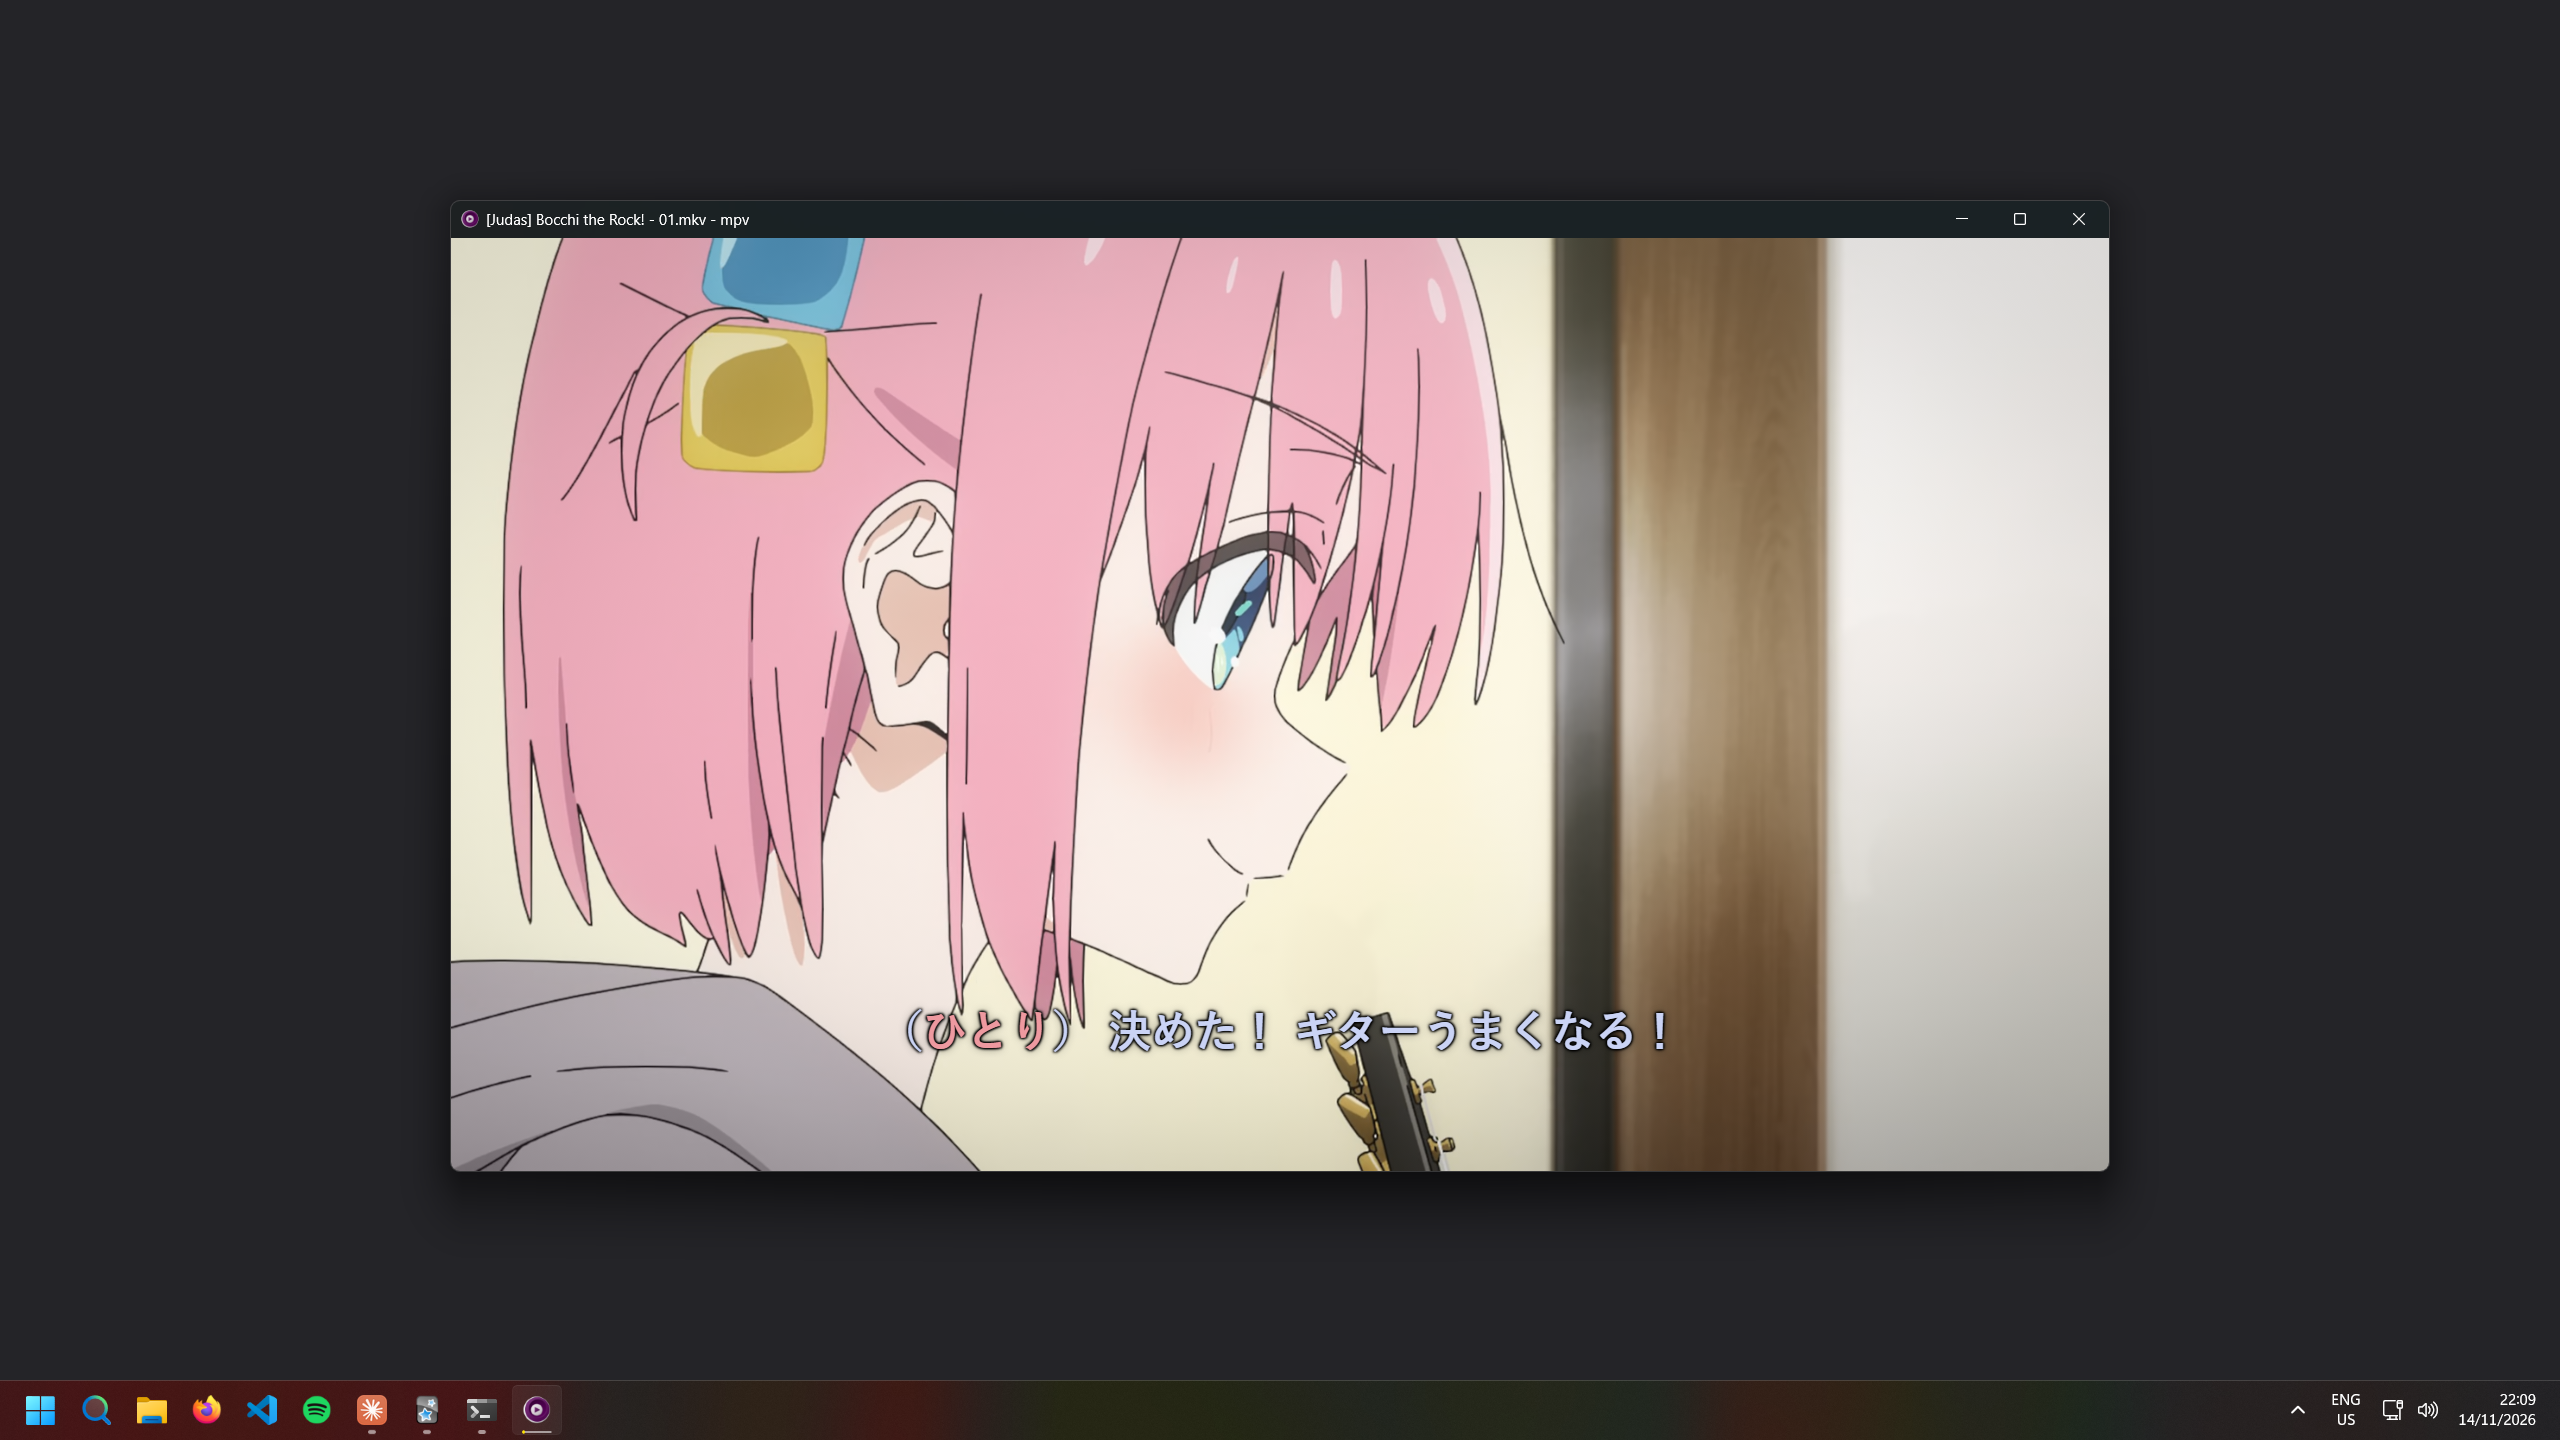
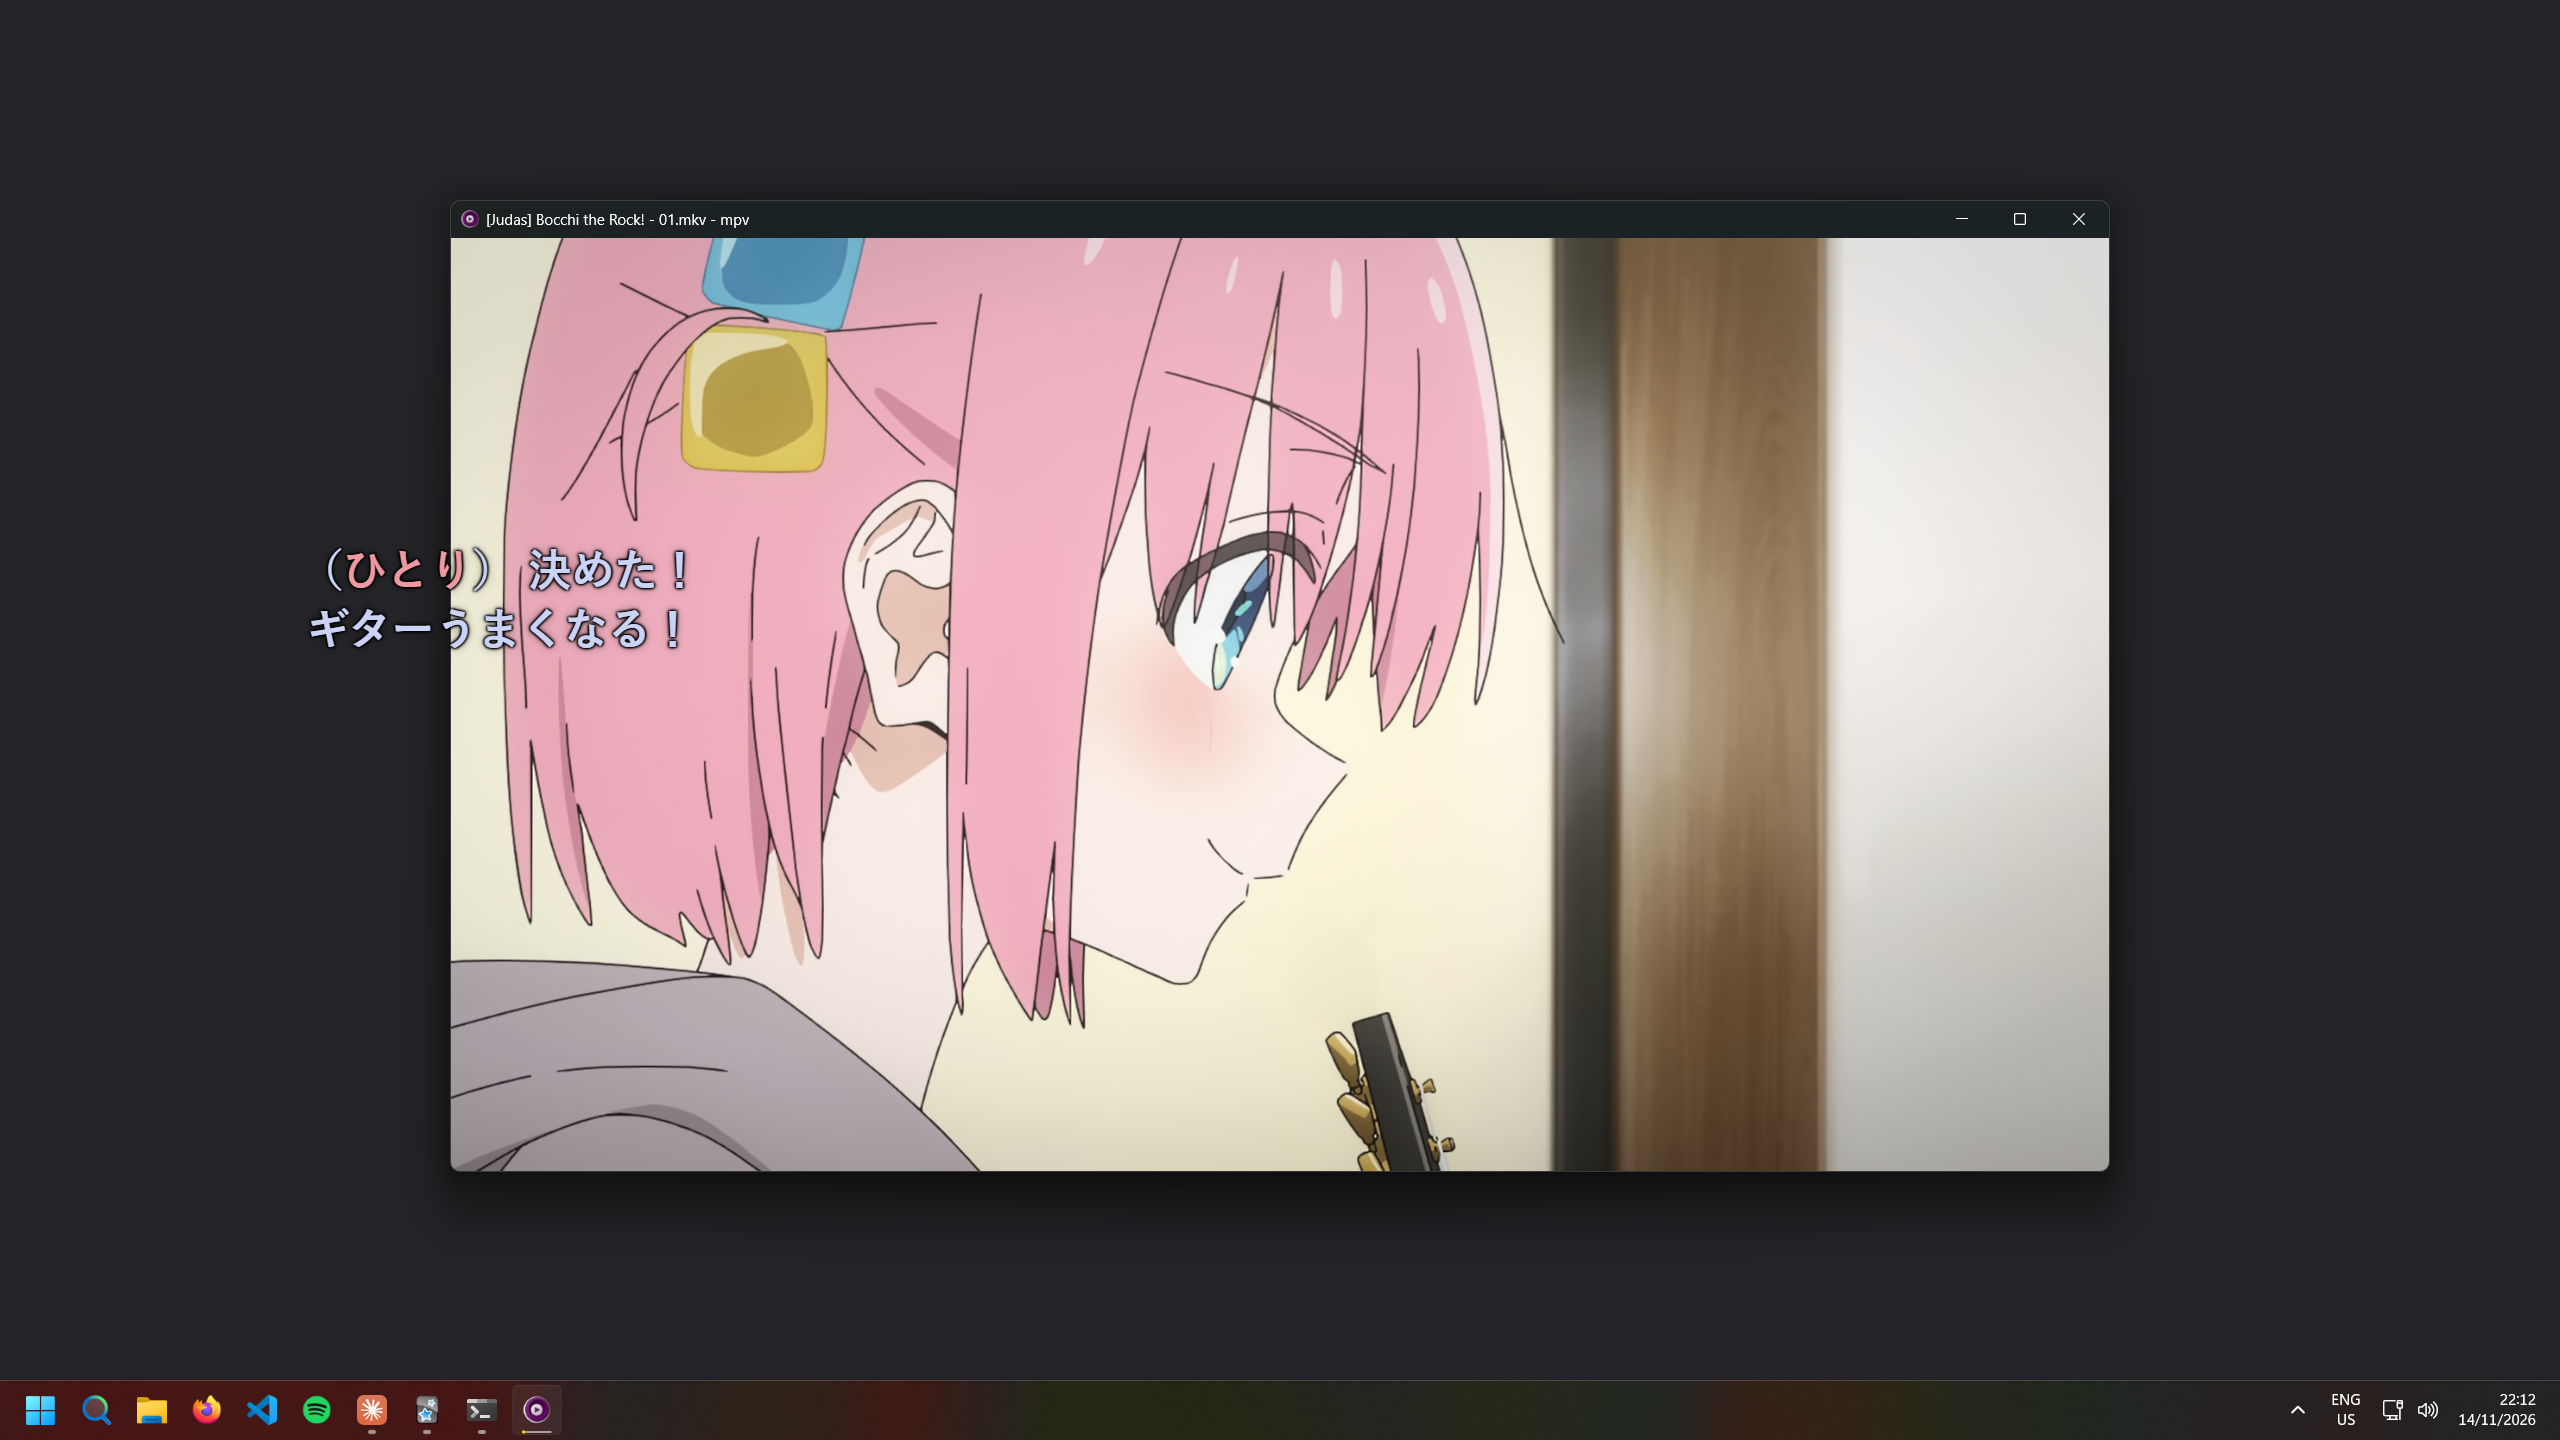
docs: redo #61 visuals with a recreated overlay window

Changed region(s): [[0.3438, 0.6875, 0.6562, 0.75], [0.125, 0.375, 0.2812, 0.4688]]

diff --git a/pr-visuals/lwnmod/README.md b/pr-visuals/lwnmod/README.md
@@ -19,7 +19,8 @@ In this test a tray SubMiner was started with `--background`, then mpv was launc
 
 ## PR 61: subtitles in the top-left corner
 
-In this test a tray SubMiner was started, mpv was launched and closed, and then mpv was launched again.
+In this test a tray SubMiner was started, then mpv was launched and closed. Next the leftover "SubMiner Overlay" window was closed with WM_CLOSE, while SubMiner itself kept running. Finally mpv was launched again, which made SubMiner create a new overlay window.
 
-- The bug did not reproduce on this PC. In both `61-before.png` and `61-after.png` the subtitle is in its normal place.
-- The window rects in `61-before.txt` and `61-after.txt` are identical in both builds. The running app reused its existing overlay window (same hwnd), so the recreated-window case that PR 61 fixes never came up.
+- Before (`61-before.png`): the new overlay window sits at 0,0 with its default size of 1000x750 px instead of on mpv. The subtitle shows up near the left edge of the screen, around the middle, partly outside mpv.
+- After (`61-after.png`): the new overlay window is placed on mpv (450,200 to 2110,1173), and the subtitle is at the bottom center of the video.
+- The window lists and hwnds for every step are in `61-before.txt` and `61-after.txt`.
